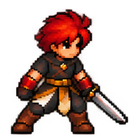
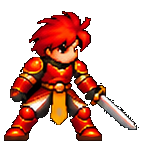
Kael: owner's 8x8 battle sheets for all three forms (shared tools/import_heroes.py); portraits regenerated
Claude-Session: https://claude.ai/code/session_018FD9XXPN18zgpdgkPrG4jT

diff --git a/tools/import_heroes.py b/tools/import_heroes.py
@@ -1,6 +1,6 @@
 """
-Imports the owner's 8x8 battle sheets (tools/art_src/<form_id>.png, black background, facing right) for Mira and
-Thorne, and writes every hero's portrait as its first idle frame (Kael included).  Run: python3 tools/import_heroes.py
+Imports the owner's 8x8 battle sheets (tools/art_src/<form_id>.png, black background, facing right) for Kael, Mira
+and Thorne, and writes every hero's portrait as its first idle frame.  Run: python3 tools/import_heroes.py
 
 Sheet rows: 0 idle/basic swing, 1 attack (projectile / shield bash), 2 skill, 3 Burst, 4 hit + stun, 5 poison/freeze,
 6 KO, 7 victory. Frames are kept 1:1 (body ~128 px, drawn x2 in battle like Kael; UI uses ui_scale 0.25).
@@ -16,6 +16,13 @@ ART = os.path.join(os.path.dirname(__file__), 'art_src')
 OUT = os.path.join(os.path.dirname(__file__), '..', 'Content', 'assets', 'characters')
 F = 160                                   # frame size; feet on row F - 4 (the game's anchor), body centred
 ANIMS = {   # name: ([(row, col), ...], fps, loop)
+    'kael': {'idle': ([(0, c) for c in (0, 1, 2, 3)], 5, True),
+             'attack': ([(1, c) for c in (1, 2, 3, 4, 5, 6, 7)], 14, False),             # slashes on 2 and 4
+             'hit': ([(4, c) for c in (0, 0, 3)], 10, False),
+             'victory': ([(7, c) for c in (2, 3, 4, 5, 6, 7)], 6, True),
+             'ko': ([(6, c) for c in range(8)], 10, False),
+             'burst': ([(3, c) for c in (0, 1, 2, 3, 4, 3, 4, 5, 4, 5, 7)], 12, False),   # hits on 3/5/7/9
+             'guard': ([(0, c) for c in (4, 5, 6)], 6, True)},
     'mira': {'idle': ([(0, c) for c in (0, 1, 2, 3)], 5, True),
              'attack': ([(1, c) for c in (1, 2, 3, 4, 5, 6, 7)], 12, False),            # bolt leaves on frame 2
              'hit': ([(4, c) for c in (0, 1, 2, 3)], 10, False),
@@ -98,8 +105,9 @@ def portraits():
 
 
 if __name__ == '__main__':
-    for fam in ('mira', 'thorne'):
-        for form in {'mira': ('tidesong', 'tidecaller', 'wavesage'), 'thorne': ('mossguard', 'oakwarden', 'ancientroot')}[fam]:
+    for fam, forms in {'kael': ('emberclaw', 'blazeheart', 'cinderlord'), 'mira': ('tidesong', 'tidecaller', 'wavesage'),
+                       'thorne': ('mossguard', 'oakwarden', 'ancientroot')}.items():
+        for form in forms:
             import_sheet(f'{fam}_{form}', ANIMS[fam])
             print(f'{fam}_{form}')
     portraits()

diff --git a/CLAUDE.md b/CLAUDE.md
@@ -36,9 +36,7 @@ Python scripts in `tools/` (they write into `Content/`).
 - Done: status resist + boss diminishing returns, Dispel, mitigation/stat caps, Break Gauge, data-driven boss
   phases/auras/interrupts/multi-action, Fracture I (Ashen Warden, `towers/the_fracture.json`, tab after the towers).
 - Art: owner reverted Phase 6 (art bible); new visuals reuse/tint existing sheets until told otherwise.
-- Kael's battle sheets are owner art: `tools/art_src/kael_tiers.png` -> `python3 tools/import_kael.py` (tiers 1/2/4
-  -> 3/4/5 star, 240x156 frames, sprite.scale 2, sheet `ui_scale` 0.25). The procedural generators skip Kael.
-- Only the three starters (Kael, Mira, Thorne) are playable (`FAMILY_ORDER` in make_content.py). Mira/Thorne sheets are
+- Only the three starters (Kael, Mira, Thorne) are playable (`FAMILY_ORDER` in make_content.py). All their sheets are
   owner art: `tools/art_src/<form>.png` (8x8 battle grids) -> `python3 tools/import_heroes.py`, which also writes every
   hero's portrait as its first idle frame. Windows builds write `Cinderbound.log` next to the exe.
 
